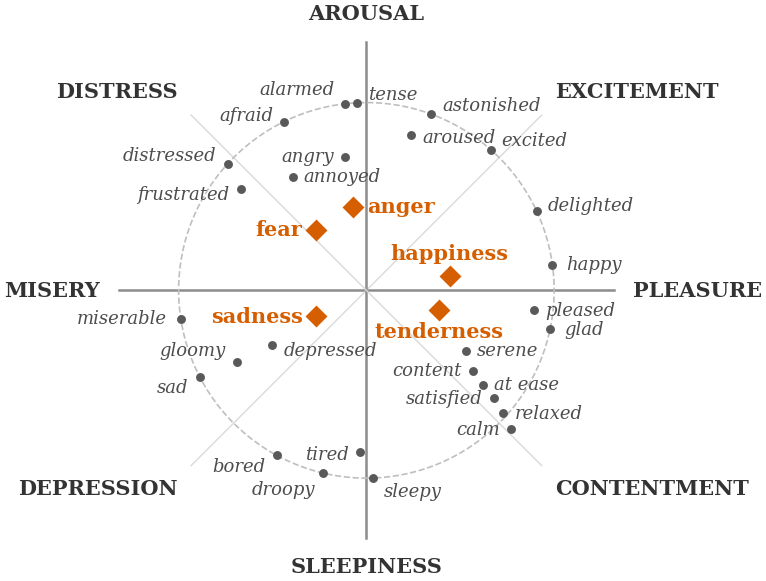
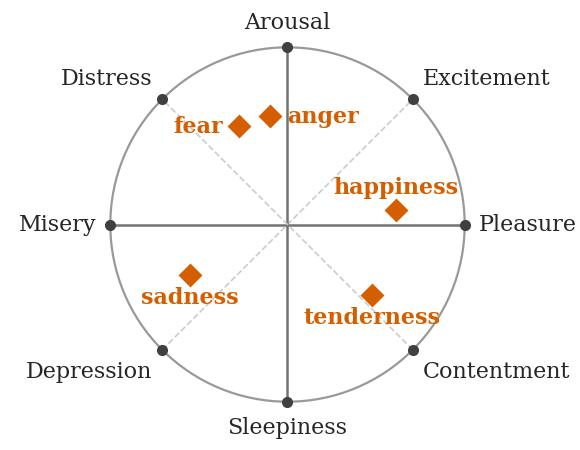
Figure 2.1 simplified: Russell's eight affect concepts and the five Eerola emotions only (Overleaf c3f6b31)

Changed region(s): [[0.0, 0.0, 0.9931, 0.9956], [0.3103, 0.3422, 0.4345, 0.4356], [0.6517, 0.8089, 0.6828, 0.84]]

diff --git a/experiments/make_circumplex.py b/experiments/make_circumplex.py
@@ -1,12 +1,11 @@
 """Draw Figure 2.1, the circumplex model of affect, redrawn after Russell (1980).
 
 Unlike the results figures in ``make_figures.py``, this one is conceptual: it shows
-Russell's 28 affect words in his circular order around the valence-arousal plane, with
-his eight affect concepts at the ends of the axes and diagonals, and marks where the
-five discrete emotions of the Eerola dataset sit. The angles are those of Russell's
-direct circular scaling (degrees, 0 = pleasure, counter-clockwise); the radii are only
-staggered so that the labels of close words do not overlap. The figure is a redrawing,
-not a copy, and the caption names the source.
+Russell's eight affect concepts in his circular order (his Figure 1) and marks where the
+five discrete emotions of the Eerola dataset sit. Each emotion is placed at the angle of
+the closest word in Russell's direct circular scaling (degrees, 0 = pleasure,
+counter-clockwise); tenderness has no word of its own there and sits with the calm,
+content words. The figure is a redrawing, not a copy, and the caption names the source.
 
 Output: ``figures/circumplex.pdf`` and ``figures/circumplex.png``.
 Run:    python experiments/make_circumplex.py
@@ -18,34 +17,14 @@ import numpy as np
 
 from make_figures import COL, WIDTH, plt, save
 
-# word: (angle in degrees, radius, label offset in points (dx, dy))
-WORDS = {
-    "happy": (7.8, 1.0, (5, 0)), "delighted": (24.9, 1.0, (4, 2)),
-    "excited": (48.6, 1.0, (4, 3)), "astonished": (69.8, 1.0, (4, 3)),
-    "aroused": (73.8, 0.86, (4, -1)), "tense": (92.8, 1.0, (4, 3)),
-    "alarmed": (96.5, 1.0, (-4, 5)), "angry": (99.0, 0.72, (-4, 0)),
-    "afraid": (116.0, 1.0, (-4, 2)), "annoyed": (123.0, 0.72, (4, 0)),
-    "distressed": (137.6, 1.0, (-4, 3)), "frustrated": (141.2, 0.86, (-4, -2)),
-    "miserable": (188.7, 1.0, (-5, 0)), "sad": (207.5, 1.0, (-4, -4)),
-    "gloomy": (209.0, 0.79, (-4, 4)), "depressed": (210.0, 0.58, (4, -2)),
-    "bored": (241.4, 1.0, (-4, -4)), "droopy": (256.7, 1.0, (-3, -6)),
-    "tired": (267.7, 0.86, (-4, -1)), "sleepy": (271.9, 1.0, (4, -5)),
-    "serene": (328.6, 0.62, (4, 0)), "content": (323.0, 0.71, (-4, 0)),
-    "at ease": (321.0, 0.80, (4, 0)), "satisfied": (319.8, 0.89, (-4, 0)),
-    "relaxed": (318.0, 0.98, (4, 0)), "calm": (316.2, 1.07, (-4, 0)),
-    "glad": (348.0, 1.0, (5, 0)), "pleased": (353.2, 0.9, (4, 0)),
-}
-
 # Russell's eight affect concepts, at 45-degree steps from pleasure
 CONCEPTS = ["pleasure", "excitement", "arousal", "distress",
             "misery", "depression", "sleepiness", "contentment"]
 
-# the five discrete emotions of Eerola et al. (2011): placed at the angle of the
-# closest Russell word, inside the ring (tenderness has no word of its own: it sits with
-# the calm, content words); the last entry is the label offset in points
-EEROLA = {"happiness": (10.0, 0.45, (0, 8)), "anger": (99.0, 0.45, (5, 0)),
-          "fear": (130.0, 0.42, (-5, 0)), "sadness": (207.5, 0.30, (-5, 0)),
-          "tenderness": (345.0, 0.40, (0, -8))}
+# the five discrete emotions of Eerola et al. (2011): angle, radius, label offset (points)
+EEROLA = {"happiness": (7.8, 0.62, (0, 8)), "anger": (99.0, 0.62, (6, 0)),
+          "fear": (116.0, 0.62, (-6, 0)), "sadness": (207.5, 0.62, (0, -8)),
+          "tenderness": (320.0, 0.62, (0, -8))}
 
 
 def xy(angle, r):
@@ -54,34 +33,29 @@ def xy(angle, r):
 
 
 def main() -> None:
-    fig, ax = plt.subplots(figsize=(WIDTH * 0.78, WIDTH * 0.62))
+    fig, ax = plt.subplots(figsize=(WIDTH * 0.62, WIDTH * 0.5))
     ax.set_aspect("equal")
     ax.axis("off")
-    ax.add_patch(plt.Circle((0, 0), 1.0, fill=False, color="0.75", lw=0.6, ls="--"))
+    ax.add_patch(plt.Circle((0, 0), 1.0, fill=False, color="0.6", lw=0.8))
     for k in range(4):                       # axes and diagonals
-        x, y = xy(45 * k, 1.32)
-        ax.plot([-x, x], [-y, y], color="0.55" if k % 2 == 0 else "0.85",
-                lw=0.9 if k % 2 == 0 else 0.5, zorder=0)
+        x, y = xy(45 * k, 1.0)
+        ax.plot([-x, x], [-y, y], color="0.45" if k % 2 == 0 else "0.8",
+                lw=0.9 if k % 2 == 0 else 0.6, ls="-" if k % 2 == 0 else "--", zorder=0)
     for k, c in enumerate(CONCEPTS):
-        x, y = xy(45 * k, 1.42)
-        ha = "center" if abs(x) < 0.1 else ("left" if x > 0 else "right")
-        va = "center" if abs(y) < 0.1 else ("bottom" if y > 0 else "top")
-        ax.text(x, y, c.upper(), ha=ha, va=va, fontsize=7.5, fontweight="bold",
-                color="0.2")
-    for w, (ang, r, (dx, dy)) in WORDS.items():
-        x, y = xy(ang, r)
-        ax.plot(x, y, "o", ms=2.2, color="0.35", zorder=3)
-        ax.annotate(w, (x, y), xytext=(dx, dy), textcoords="offset points",
-                    ha="left" if dx > 0 else "right", va="center", fontsize=6.5,
-                    color="0.3", style="italic")
+        x, y = xy(45 * k, 1.0)
+        ax.plot(x, y, "o", ms=3, color="0.25", zorder=3)
+        tx, ty = xy(45 * k, 1.08)
+        ha = "center" if abs(tx) < 0.1 else ("left" if tx > 0 else "right")
+        va = "center" if abs(ty) < 0.1 else ("bottom" if ty > 0 else "top")
+        ax.text(tx, ty, c.capitalize(), ha=ha, va=va, fontsize=8, color="0.15")
     for e, (ang, r, (dx, dy)) in EEROLA.items():
         x, y = xy(ang, r)
-        ax.plot(x, y, "D", ms=4.5, color=COL["emotion"], zorder=4)
+        ax.plot(x, y, "D", ms=5, color=COL["emotion"], zorder=4)
         ax.annotate(e, (x, y), xytext=(dx, dy), textcoords="offset points",
                     ha="center" if dx == 0 else ("left" if dx > 0 else "right"),
-                    va="center", fontsize=7.5, color=COL["emotion"], fontweight="bold")
-    ax.set_xlim(-1.75, 1.75)
-    ax.set_ylim(-1.5, 1.5)
+                    va="center", fontsize=8, color=COL["emotion"], fontweight="bold")
+    ax.set_xlim(-1.6, 1.6)
+    ax.set_ylim(-1.25, 1.25)
     save(fig, "circumplex")
 
 

diff --git a/experiments/README.md b/experiments/README.md
@@ -46,7 +46,7 @@ python experiments/audit_consistency.py
 `results/*.json` (twelve are in the thesis; `box_office` is not); give figure names to draw only some. `export_current_state.py` turns
 `docs/current_state.md` into `.docx` and `.pdf` (needs LibreOffice).
 `make_circumplex.py` draws Figure 2.1, the circumplex of affect redrawn after Russell
-(1980), with the five Eerola emotions marked; it is conceptual, not drawn from results.
+(1980): his eight affect concepts and the five Eerola emotions; conceptual, not from results.
 
 ## features — dataset and features
 | Script | Purpose | Log |
